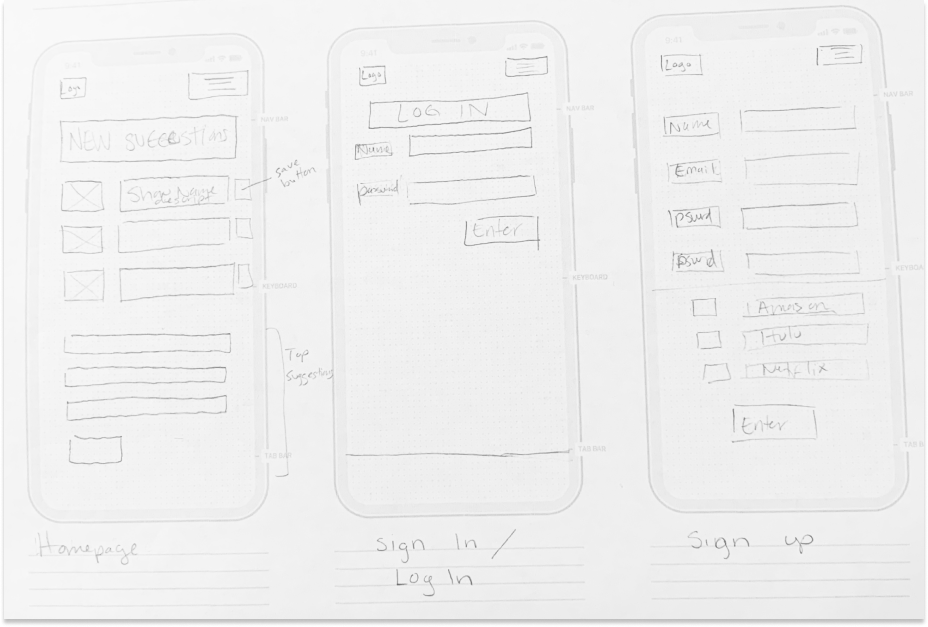
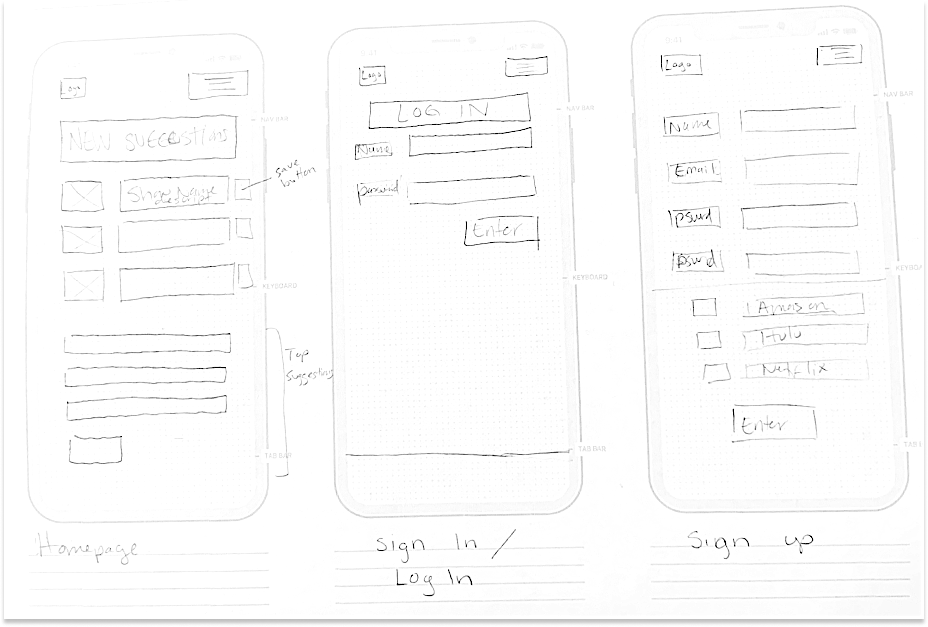
fix navbar

Changed region(s): [[0.7188, 0.3333, 0.75, 0.3636]]

diff --git a/css/style.css b/css/style.css
@@ -2219,7 +2219,8 @@ h6{
   padding-top: 2rem;
   padding-bottom: 2rem;
   padding-right: 0;
-  margin-left: 15%;
+  padding-left: 10%;
+  margin-left: 0%;
   font-size: 2rem;
 
 }
@@ -2373,6 +2374,8 @@ img.headshot-about{
 }
 
 .tvcenterimg{
+  padding-left: 0%;
+  padding-right: 0%;
   width: 100%;
 }
 
@@ -2394,7 +2397,7 @@ img.headshot-about{
   background-color: #BFD5DA;
   display: block;
   width: 100%;
-  height: 100%;
+  height: 120%;
 }
 
 .project-heroccf{
@@ -2405,9 +2408,12 @@ img.headshot-about{
 }
 
 .tvtellhero2{
-  margin-left: 50%;
-  width:100%;
+  margin-left: auto;
+  margin-right: auto;
+  width:150%;
+  padding-top: 15%;
   padding-bottom: 15%;
+  padding-left: 0;
 }
 
 .ccfdesktop{
@@ -2625,6 +2631,18 @@ h6{
 .brainstormname{
   margin-left: auto;
   margin-right: auto;
+  width: 100%;
+}
+
+.keyword{
+  margin-left: auto;
+  margin-right: auto;
+  width: 80%;
+}
+
+.names{
+  margin-left: auto;
+  margin-right: auto;
   width: 80%;
 }
 
@@ -2675,17 +2693,13 @@ h6{
   background-color: #BFD5DA;
   display: block;
   width: 100%;
-  height: 128%;
+  height: 148%;
 }
 .project-heroccf{
   background-color: #BFD5DA;
   display: block;
   width: 100%;
   height: 45%;
-}
-
-.tvtellhero2{
-  padding-left: 0;
 }
 
 .tv-text{
@@ -2718,10 +2732,14 @@ h6{
 }
 
 .tvtellhero2{
+  width: 100%;
   margin-left: 0;
   margin-top: 5%;
   margin-bottom: 0;
   padding-bottom: 10%;
+  padding-left: 0;
+  padding-top: 0%;
+
 }
 
 .project-right-mobile{

diff --git a/tvtell.html b/tvtell.html
@@ -299,7 +299,7 @@
               <p>By creating user flows I was able to have a clear vision into the functionality of my designs. I then moved into sketching wire frames and transfering my sketches into vector design in figma.</p>
 
 
-              <img class="tvcenterimg" src="img/tvwireframesketch.png" alt="wireframe sketch">
+              <img class="tvcenterimg" src="img/tvwireframesketch2.jpg" alt="wireframe sketch">
 
               <img class="tvcenterimg3" src="img/tvwireframevector.png" alt="wireframe vector drawing">
               <div class="spacer">
